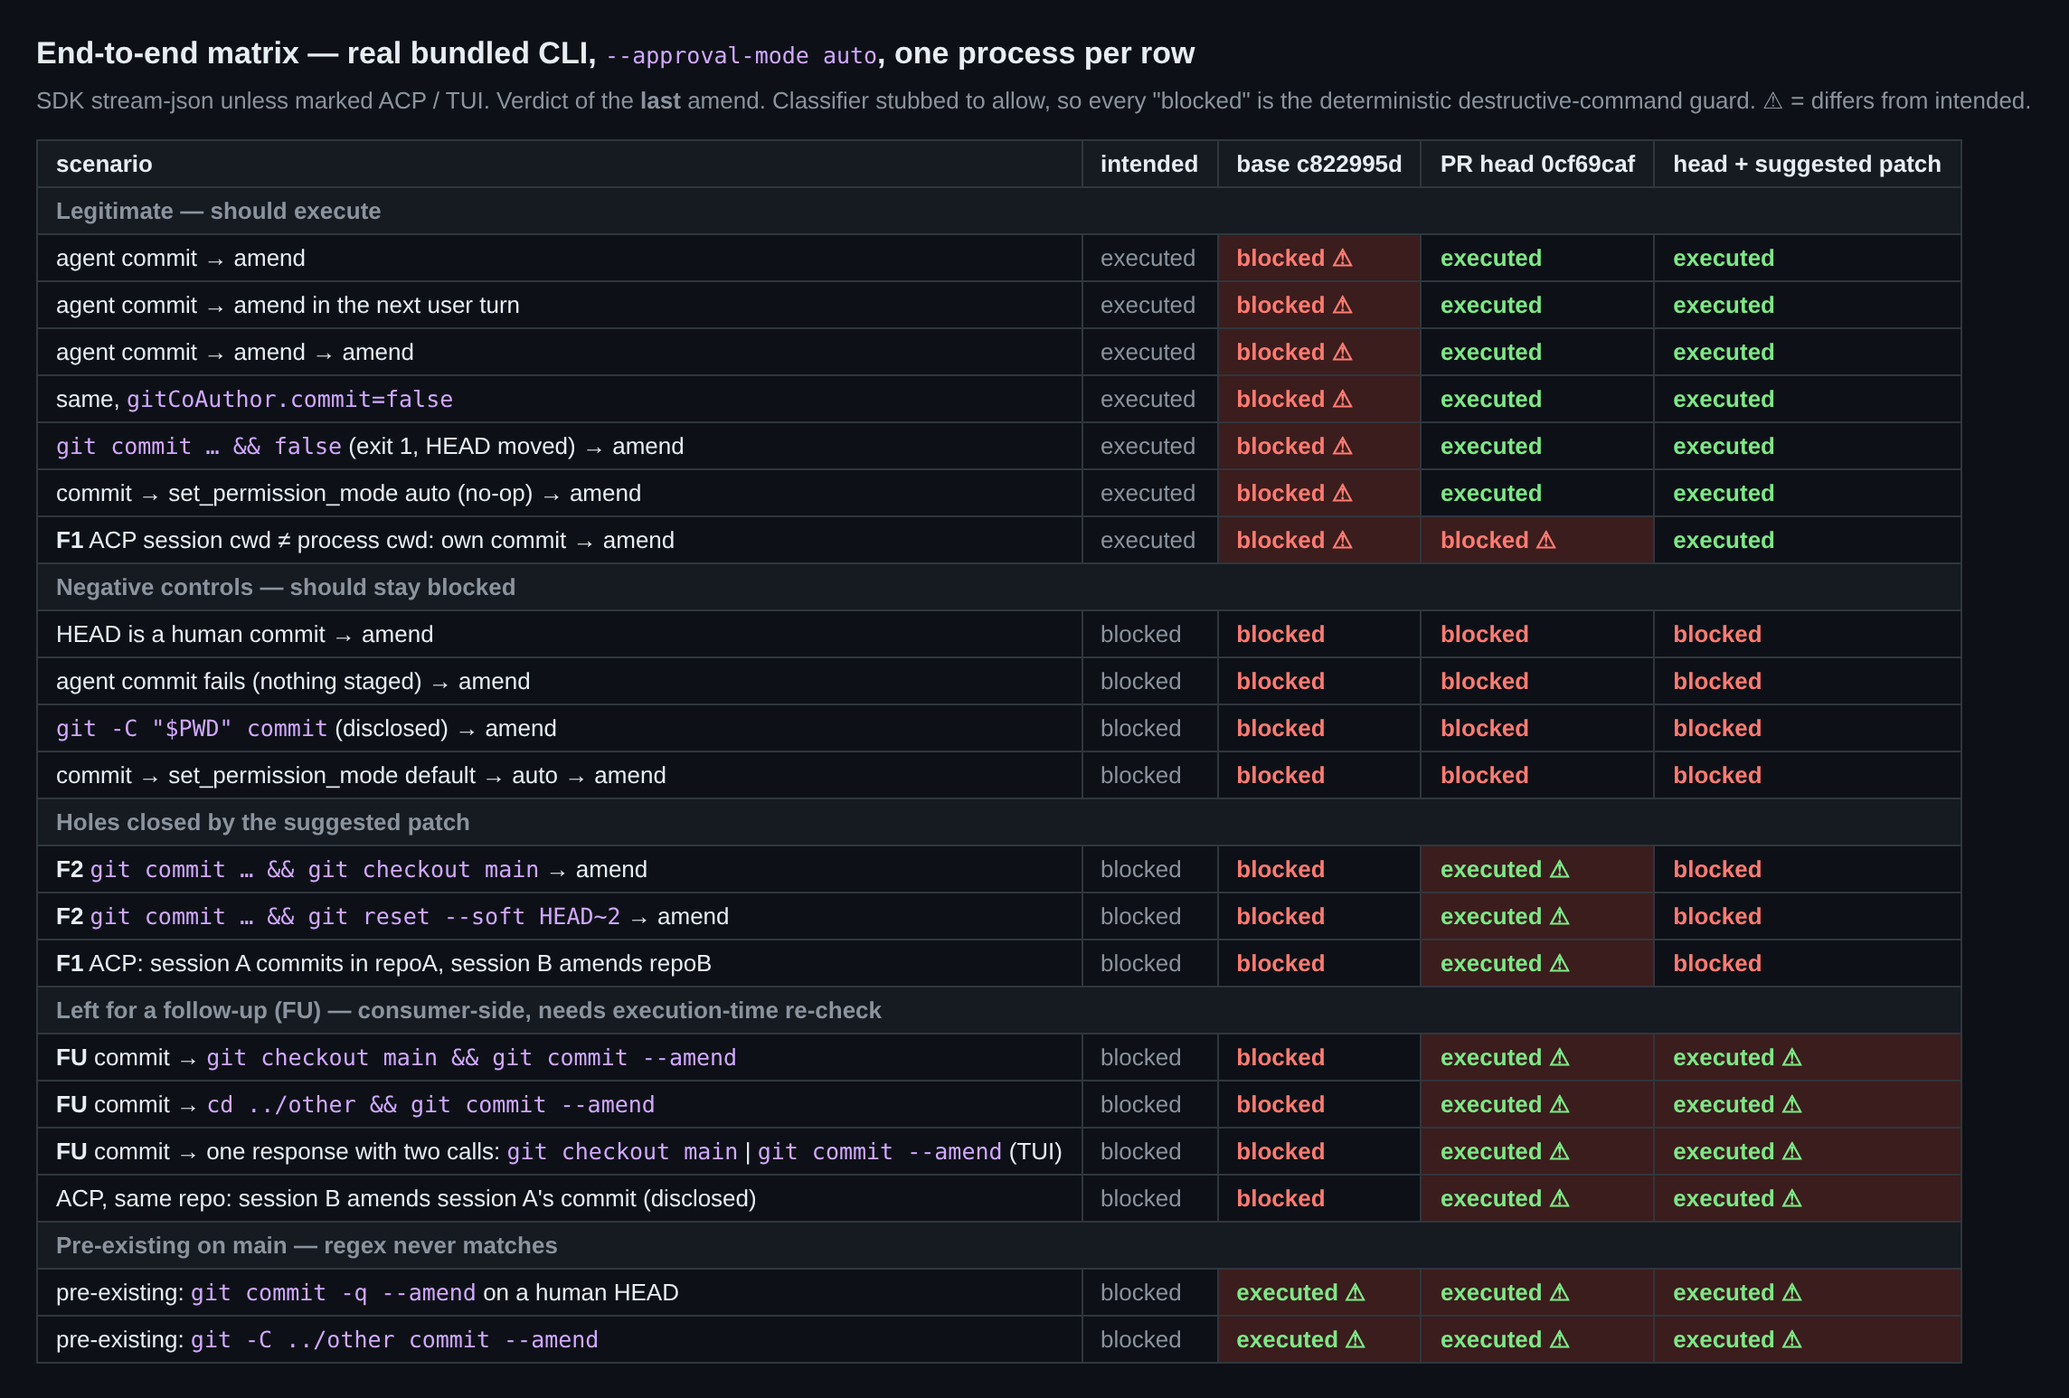
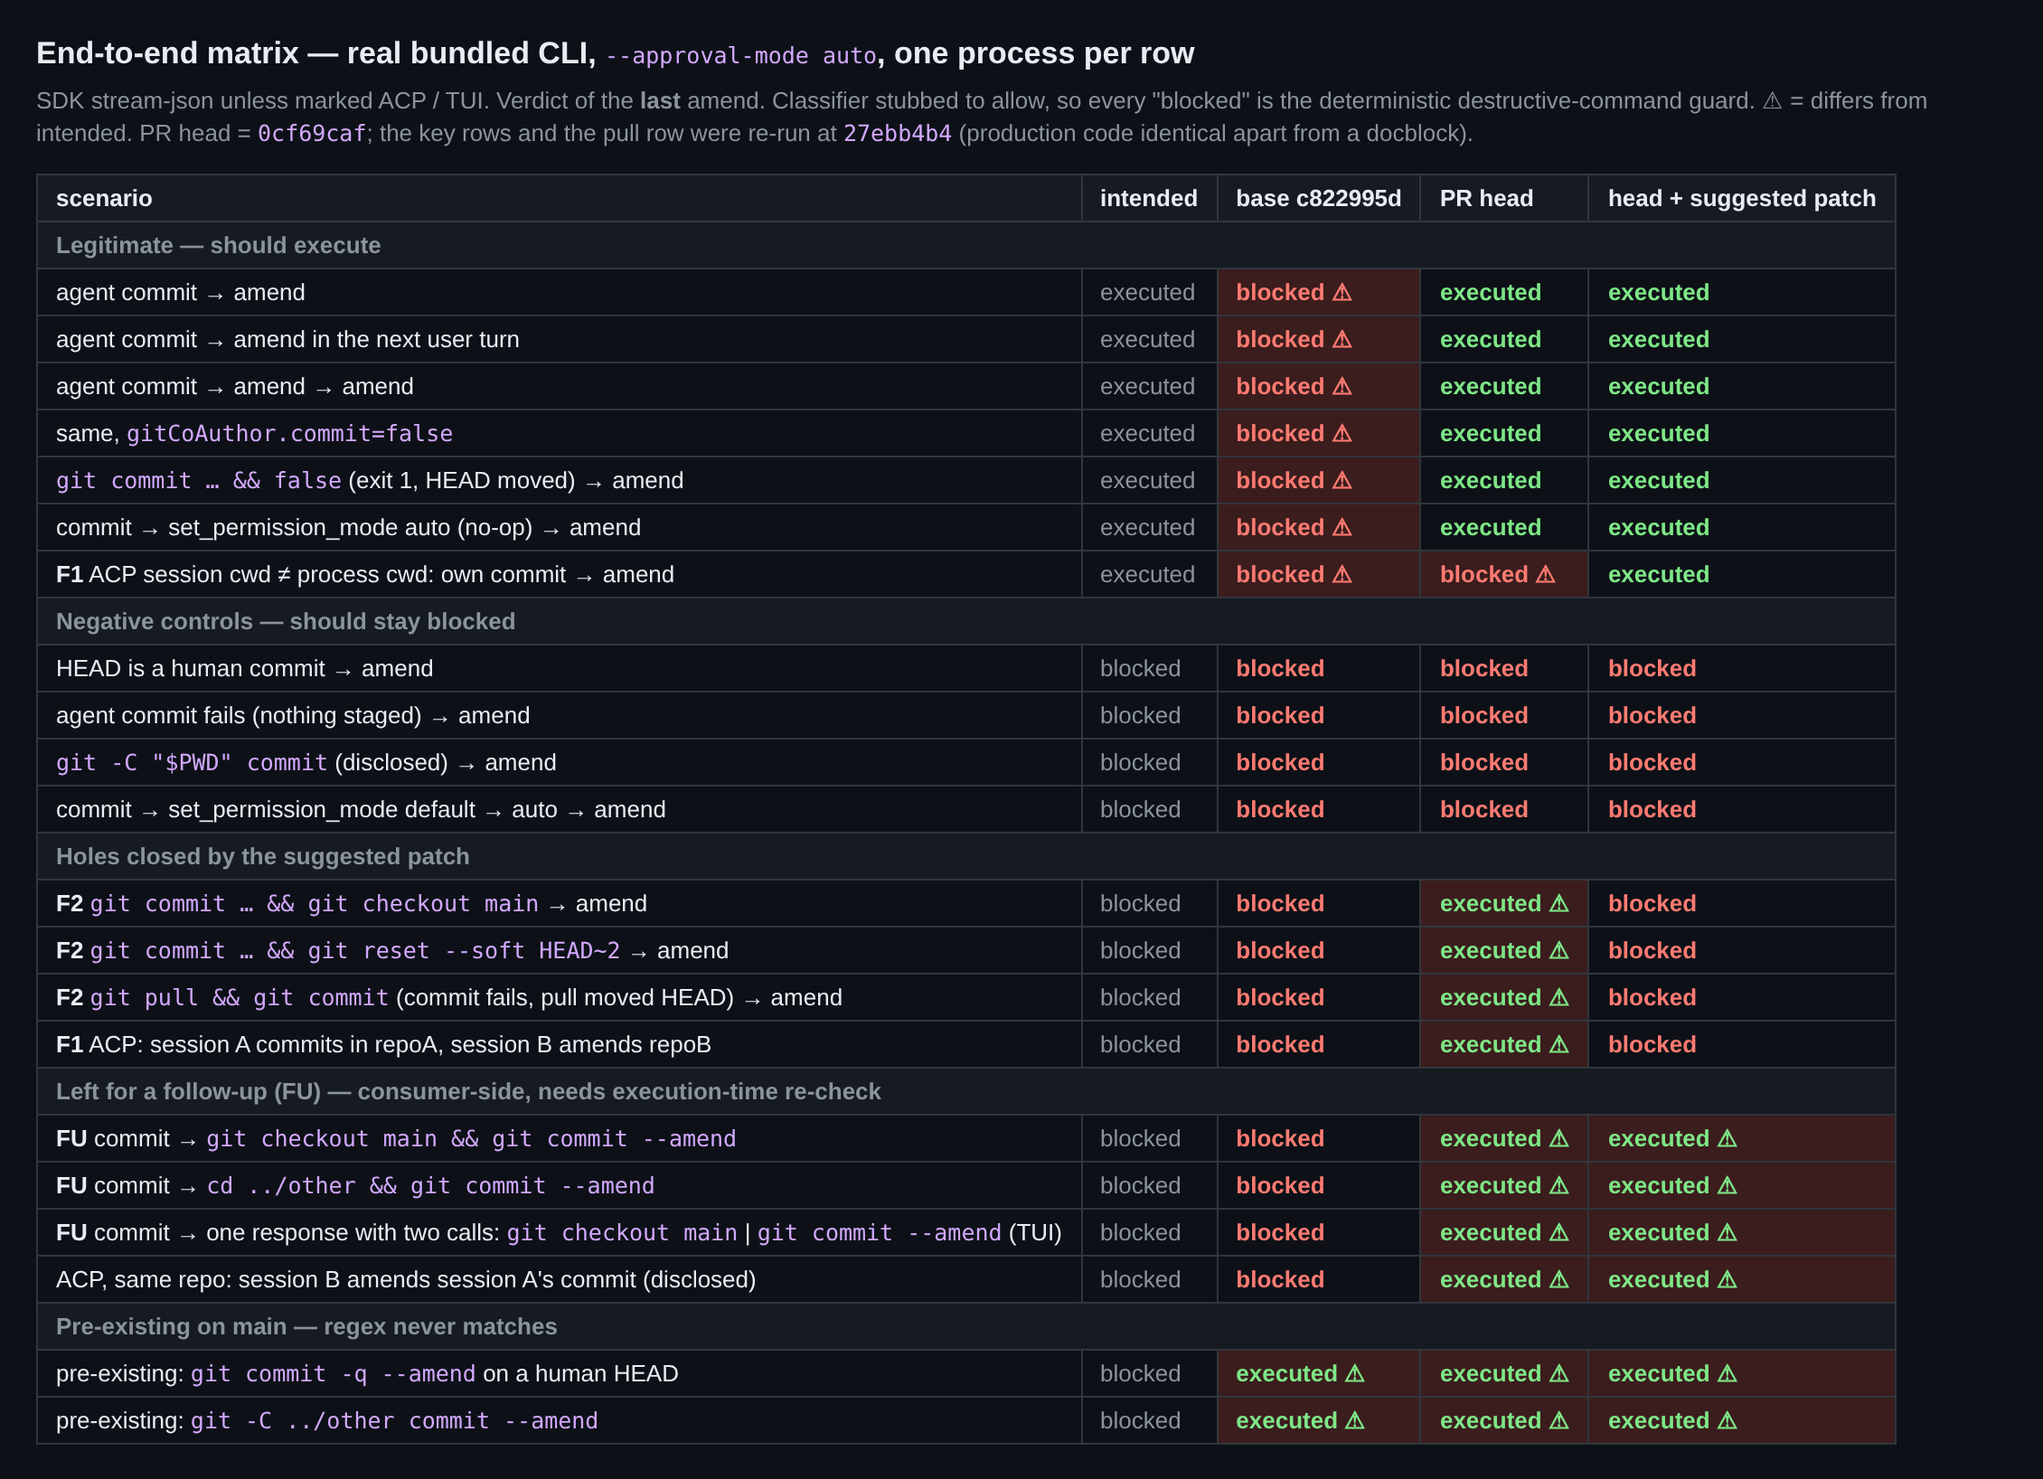
assets: PR12463 maintainer verification evidence (rebased onto 27ebb4b4)

diff --git a/pr-12463/REPORT.md b/pr-12463/REPORT.md
@@ -2,7 +2,7 @@
 
 **Verdict: the direction is right and the fix works for the default single-session CLI. The Windows test gate is now fixed at `27ebb4b4`. I'd still land two small production changes before merging, both verified in the patch below:**
 1. **The guard reads HEAD in the wrong directory.** When the tool call carries no `directory`, the AUTO guard checks `process.cwd()`, but the commit is registered in `getTargetDir()`. So in ACP sessions or worktrees where the two differ, the PR's fix does nothing, **and** an amend in one repo can be exempted by a commit made in another.
-2. **"HEAD moved" is treated as "the agent made HEAD".** The PR's own `trackSessionCommit` registers whatever HEAD points to after a commit-shaped chain. So `git commit … && git checkout main` registers a human commit, and the next plain amend rewrites it.
+2. **"HEAD moved" is treated as "the agent made HEAD".** The PR's own `trackSessionCommit` registers whatever HEAD points to after a commit-shaped chain. So `git commit … && git checkout main` registers a human commit, and the next plain amend rewrites it. This has the same root cause as the Critical in the latest CHANGES_REQUESTED review (5277658032), which found it through a leading `git pull` instead. I ran that shape through the real CLI too; the same patch closes both.
 
 There are also consumer-side holes: a checkout or `cd` inside the amend command, and two parallel tool calls. They are real, and this PR makes them reachable for the canonical spelling. But fixing them means parsing what the command does, and on `main` the deterministic guard never matches spellings like `git commit -q --amend` anyway; those already go straight to the classifier. So I'd track them in a follow-up rather than block this PR.
 
@@ -44,15 +44,17 @@ I did the full verification at `0cf69caf`. The head moved to `27ebb4b4` while I 
 - **Fix:** `input.ctx.cwd ?? input.config.getTargetDir?.()`. The `?.` is only there for test mocks. This `cwd` is only consulted by the amend check.
 
 ### F2: "HEAD moved" is not "the agent made HEAD" (in the PR's own `trackSessionCommit`; should-fix in this PR)
+Same root cause as the `[Critical]` in review 5277658032. That review replicated the criterion in a standalone driver and did not drive `ShellToolInvocation`. The rows below go through the real bundled CLI.
 - **Chains that register a human commit:**
   - `git add … && git commit -m "wip" && git checkout main` registers `main`'s tip.
   - `git commit -m "wip" && git reset --soft HEAD~2` registers `HEAD~2`.
+  - **The review's shape:** `git pull -q origin main && git commit -q -m "agent work"`. Nothing is staged, so the commit fails, but the pull already fast-forwarded HEAD onto `upstream: human work [Upstream Author]`. On head, the next amend rewrote that upstream commit. Base and patch both blocked it.
 - **Effect:** the next plain `git commit --amend` rewrites that human commit. Base blocked, head executed, patch blocked (figure 2).
 - **Real classifier:** with natural wording, first *"Commit what you have on this branch as a WIP commit, then switch me back to main."* and then *"…fold it into that WIP commit."*:
   - The classifier approved **5/5**.
   - Each time, `user: main release notes` on `main` was rewritten with `NOTES.md` folded in, while the agent's WIP commit on `feature` was left untouched.
 - **Also contradicts the PR body's own bound:** "the exempted commit is still one the agent itself created".
-- **Fix:** register `postHead` only if the last HEAD reflog entry is a commit that landed on it. That means `git log -g -1 --no-show-signature --format='%H %gs' HEAD` must read `<postHead> commit[ (amend|initial|merge|cherry-pick)]:…`.
+- **Fix:** register `postHead` only if the newest HEAD reflog entry is a commit that points at it. This is a concrete, one-subprocess form of that review's options 2 and 3, and it covers leading and trailing HEAD moves alike. Concretely, `git log -g -1 --no-show-signature --format='%H %gs' HEAD` must read `<postHead> commit[ (amend|initial|merge|cherry-pick)]:…`.
   - It costs one extra `execFile`, and it fails closed when there is no reflog.
   - Reflog subjects are not localized (checked under German and zh_CN).
   - `--no-show-signature` keeps signed commits working under `log.showSignature=true`.
@@ -63,11 +65,9 @@ I did the full verification at `0cf69caf`. The head moved to `27ebb4b4` while I 
 ### F3: the Windows test gate, resolved at `27ebb4b4`
 At `0cf69caf`, pointing `spawnSync` at a nonexistent shell (to simulate a runner without `/bin/bash`) gave `5 failed | 2 passed (7)`. At `27ebb4b4`, the same simulation with the gate forced on gives `7 skipped`. ✅
 
-### About the approving review and the "last hop" argument
-Both argue from code reading. The runs above contradict three of their premises:
-- **"A human's commit is never registered … a pull, rebase, reset or checkout has no `commit` subcommand, so `attributableInCwd` is false."** That holds for a command that contains *only* those. But a chain containing both, such as `git commit … && git checkout main`, has a `commit` subcommand, so `attributableInCwd` is true and the human's `main` tip gets registered (F2, 5/5 with the real classifier). The new docblock asks the right question ("is HEAD a commit this session's agent produced"), but "HEAD moved" doesn't answer it.
-- **"Composing those leaves no untested logic in between: same `isDestructiveCommand(command, userPrompt, ctx.cwd)` call."** The untested logic is `ctx.cwd` itself. In production it's `undefined` unless the call passes `directory`, so the guard reads `process.cwd()`. The witness tests always pass `repoDir` explicitly (F1).
-- **"Ordering against attribution is load-bearing."** It isn't; see the nit below (mutants M3 and M4 stay green).
+### Two premises in the thread that the runs contradict
+- **The "last hop" argument** (the author's reply above: *"composing those leaves no untested logic in between: same `isDestructiveCommand(command, userPrompt, ctx.cwd)` call"*). The untested logic is `ctx.cwd` itself. In production it's `undefined` unless the call passes `directory`, so the guard reads `process.cwd()`. The witness tests always pass `repoDir` explicitly (F1).
+- **"Ordering against attribution is deliberate and load-bearing"** (from the earlier approving review; its author has since voided only the registration claim, in 5776112023). It isn't load-bearing; see the nit below (mutants M3 and M4 stay green).
 
 The E2E the author asked `/tmux` to capture is covered here: the agent's own commit and amend (figure 1), plus an amend of a commit the agent did not make staying blocked (matrix, negative controls).
 
@@ -102,8 +102,8 @@ With the real classifier, the first shape was approved **5/5**.
 
 ![/clear keeps the registry](./04-clear-keeps-registry.png)
 
-### Suggested patch (verified on top of `27ebb4b4`; +86/−2 across 3 files)
-- **Unit tests:** 9/9 in the witness file (2 new tests). 1851/1851 across `coreToolScheduler`, `autoMode`, `destructive-commands`, `shell`, `shell.backgroundStatus`, `config`, `speculationToolGate`, `InProcessBackend` and the witness file. CLI `acp-integration/session/Session.test.ts` passes 1048/1048. `tsc --noEmit` exit 0, eslint 0.
+### Suggested patch (verified on top of `27ebb4b4`; +104/−2 across 3 files)
+- **Unit tests:** 9/9 in the witness file. The 2 new tests sit beside test 3. The F2 test covers trailing `checkout` and `reset --soft` plus a leading `merge --ff-only` with a failing commit; the leading-move assertion discriminates on its own. 1851/1851 across `coreToolScheduler`, `autoMode`, `destructive-commands`, `shell`, `shell.backgroundStatus`, `config`, `speculationToolGate`, `InProcessBackend` and the witness file. CLI `acp-integration/session/Session.test.ts` passes 1048/1048. `tsc --noEmit` exit 0, eslint 0.
 - **Discrimination:** reverting `shell.ts` to `27ebb4b4` fails the F2 test; reverting `autoMode.ts` fails the F1 test.
 - **E2E:** last matrix column. Every legitimate row executes, including the ACP session whose cwd ≠ the process cwd. The F1 and F2 rows are blocked. With the real classifier, the legitimate amend still executes and F2 is blocked.
 

diff --git a/pr-12463/REPORT.zh-CN.md b/pr-12463/REPORT.zh-CN.md
@@ -2,7 +2,7 @@
 
 **结论：方向正确，默认的单会话 CLI 下修复有效。Windows 测试门控已在 `27ebb4b4` 修复。合入前仍建议落地两处生产代码小改动，均已在下方补丁中验证：**
 1. **守卫读错了目录的 HEAD。** 工具调用不带 `directory` 时，AUTO 守卫检查的是 `process.cwd()`，登记却发生在 `getTargetDir()`。因此在两者不一致的 ACP 会话或 worktree 中，本 PR 的修复不生效，**并且**一个仓库里的 amend 会被另一个仓库里的提交豁免。
-2. **"HEAD 动了"被当成了"HEAD 是 agent 提交的"。** PR 自己的 `trackSessionCommit` 会把形似 commit 的命令链执行后 HEAD 所在的提交登记下来。于是 `git commit … && git checkout main` 会登记人类的提交，下一条普通 amend 就会改写它。
+2. **"HEAD 动了"被当成了"HEAD 是 agent 提交的"。** PR 自己的 `trackSessionCommit` 会把形似 commit 的命令链执行后 HEAD 所在的提交登记下来。于是 `git commit … && git checkout main` 会登记人类的提交，下一条普通 amend 就会改写它。这与最新那条 CHANGES_REQUESTED 评审（5277658032）里的 Critical 同根，只是那条评审是经由前置的 `git pull` 发现的。那种形态我也用真实 CLI 跑过，同一个补丁把两者都堵住了。
 
 另有几处消费侧漏洞：amend 命令内部带 checkout 或 `cd`，以及两个并行的工具调用。它们确实存在，也是本 PR 让标准写法可以触达它们。但要修好就得解析命令的语义；而且在 `main` 上，确定性守卫本来就匹配不到 `git commit -q --amend` 这类写法，这些写法会直接交给分类器。所以建议另开 follow-up 跟踪，不必阻塞本 PR。
 
@@ -44,15 +44,17 @@
 - **修复：** 改为 `input.ctx.cwd ?? input.config.getTargetDir?.()`。`?.` 只是为了兼容测试里的 mock。这个 `cwd` 只在 amend 检查中使用。
 
 ### F2："HEAD 动了"不等于"HEAD 是 agent 提交的"（PR 自己的 `trackSessionCommit`，建议在本 PR 修）
+与评审 5277658032 的 `[Critical]` 同根。那条评审是在独立的驱动脚本里复刻了判据，没有驱动 `ShellToolInvocation`；下面各行都走真实的 bundle 版 CLI。
 - **会登记人类提交的命令链：**
   - `git add … && git commit -m "wip" && git checkout main` 会登记 `main` 的 tip。
   - `git commit -m "wip" && git reset --soft HEAD~2` 会登记 `HEAD~2`。
+  - **那条评审的形态：** `git pull -q origin main && git commit -q -m "agent work"`。因为没有暂存内容，commit 失败了，但 pull 已经把 HEAD 快进到 `upstream: human work [Upstream Author]`。head 上，接下来的 amend 改写了这个 upstream 提交；base 和补丁均拦截。
 - **后果：** 下一条普通的 `git commit --amend` 会改写这个人类提交。base 拦截，head 放行，补丁拦截（图 2）。
 - **真实分类器：** 用自然措辞，先说 *"把这个分支上的改动提交成 WIP，然后切回 main"*，再说 *"……并入那个 WIP 提交"*：
   - 分类器放行 **5/5**。
   - 每次都是 `main` 上的 `user: main release notes` 被改写并并入了 `NOTES.md`，而 agent 在 `feature` 上的 WIP 提交完全没动。
 - **同时违背 PR 正文自己给出的边界：** "被豁免的仍是 agent 亲自创建的提交"。
-- **修复：** 只有当 HEAD 最后一条 reflog 是一次落在 `postHead` 上的提交时才登记，即 `git log -g -1 --no-show-signature --format='%H %gs' HEAD` 须为 `<postHead> commit[ (amend|initial|merge|cherry-pick)]:…`。
+- **修复：** 只有当 HEAD 最新一条 reflog 是一次指向 `postHead` 的提交时才登记。这相当于那条评审选项 2、3 的具体实现，只多一次子进程调用，前置和后置的 HEAD 移动都能覆盖。具体来说，`git log -g -1 --no-show-signature --format='%H %gs' HEAD` 须为 `<postHead> commit[ (amend|initial|merge|cherry-pick)]:…`。
   - 代价是多一次 `execFile`；没有 reflog 时不登记（fail-closed）。
   - reflog 主题不会被本地化（在 de、zh_CN 下都验证过）。
   - `--no-show-signature` 保证 `log.showSignature=true` 时签名提交仍能被登记。
@@ -63,11 +65,9 @@
 ### F3：Windows 测试门控，已在 `27ebb4b4` 解决
 在 `0cf69caf` 上，把 `spawnSync` 指向一个不存在的 shell（模拟没有 `/bin/bash` 的 runner），结果为 `5 failed | 2 passed (7)`。在 `27ebb4b4` 上做同样的模拟并强制开启门控，结果为 `7 skipped`。✅
 
-### 关于已有的 APPROVE 评审与"最后一跳"论证
-两者都基于读代码推理。上面的实测与其中三个前提相矛盾：
-- **"人类提交永远不会被登记……pull、rebase、reset、checkout 没有 `commit` 子命令，所以 `attributableInCwd` 为 false"。** 对只包含这些操作的命令成立。但同时含有两者的命令链，例如 `git commit … && git checkout main`，本身带有 `commit` 子命令，于是 `attributableInCwd` 为 true，人类的 `main` tip 就会被登记（F2，真实分类器下 5/5）。新 docblock 提的问题是对的（"HEAD 是不是本会话 agent 产生的提交"），可"HEAD 动了"回答不了这个问题。
-- **"两端组合起来，中间没有未测的逻辑：同一个 `isDestructiveCommand(command, userPrompt, ctx.cwd)` 调用"。** 未被测到的恰恰是 `ctx.cwd` 本身。生产环境里除非调用带 `directory` 参数，它都是 `undefined`，守卫因此读的是 `process.cwd()`。见证测试则总是显式传入 `repoDir`（F1）。
-- **"与署名的先后顺序是承重的"。** 并不是，见下文注释小问题（变异体 M3、M4 均保持通过）。
+### 讨论中被实测推翻的两个前提
+- **"最后一跳"论证**（作者上面的回复：*"两端组合起来，中间没有未测的逻辑：同一个 `isDestructiveCommand(command, userPrompt, ctx.cwd)` 调用"*）。 未被测到的恰恰是 `ctx.cwd` 本身。生产环境里除非调用带 `directory` 参数，它都是 `undefined`，守卫因此读的是 `process.cwd()`。见证测试则总是显式传入 `repoDir`（F1）。
+- **"与署名的先后顺序是刻意且承重的"**（出自先前那条 APPROVE 评审；其作者后来在 5776112023 中只撤回了关于登记的那条论断）。并不承重，见下文注释小问题（变异体 M3、M4 均保持通过）。
 
 作者请 `/tmux` 采集的端到端行为，这里已经覆盖：agent 自己提交并 amend（图 1），以及对非 agent 提交的 amend 仍被拦截（矩阵的负对照组）。
 
@@ -102,8 +102,8 @@
 
 ![/clear 后注册表仍在](./04-clear-keeps-registry.png)
 
-### 建议补丁（基于 `27ebb4b4` 验证；3 个文件，+86/−2）
-- **单元测试：** 见证测试文件 9/9（新增 2 条）。`coreToolScheduler`、`autoMode`、`destructive-commands`、`shell`、`shell.backgroundStatus`、`config`、`speculationToolGate`、`InProcessBackend` 加见证文件共 1851/1851。CLI 的 `acp-integration/session/Session.test.ts` 1048/1048。`tsc --noEmit` exit 0，eslint 0。
+### 建议补丁（基于 `27ebb4b4` 验证；3 个文件，+104/−2）
+- **单元测试：** 见证测试文件 9/9。新增的 2 条放在 test 3 旁边。F2 那条同时覆盖了后置的 `checkout`、`reset --soft`，以及前置 `merge --ff-only` 加 commit 失败的情形；其中前置移动那一条断言单独也能区分。`coreToolScheduler`、`autoMode`、`destructive-commands`、`shell`、`shell.backgroundStatus`、`config`、`speculationToolGate`、`InProcessBackend` 加见证文件共 1851/1851。CLI 的 `acp-integration/session/Session.test.ts` 1048/1048。`tsc --noEmit` exit 0，eslint 0。
 - **区分力：** 把 `shell.ts` 回退到 `27ebb4b4`，F2 的测试失败；回退 `autoMode.ts`，F1 的测试失败。
 - **端到端：** 见矩阵最后一列。所有合法场景都放行，包括会话 cwd ≠ 进程 cwd 的 ACP 场景；F1、F2 各行均被拦截。真实分类器下，合法 amend 仍放行，F2 被拦。
 
